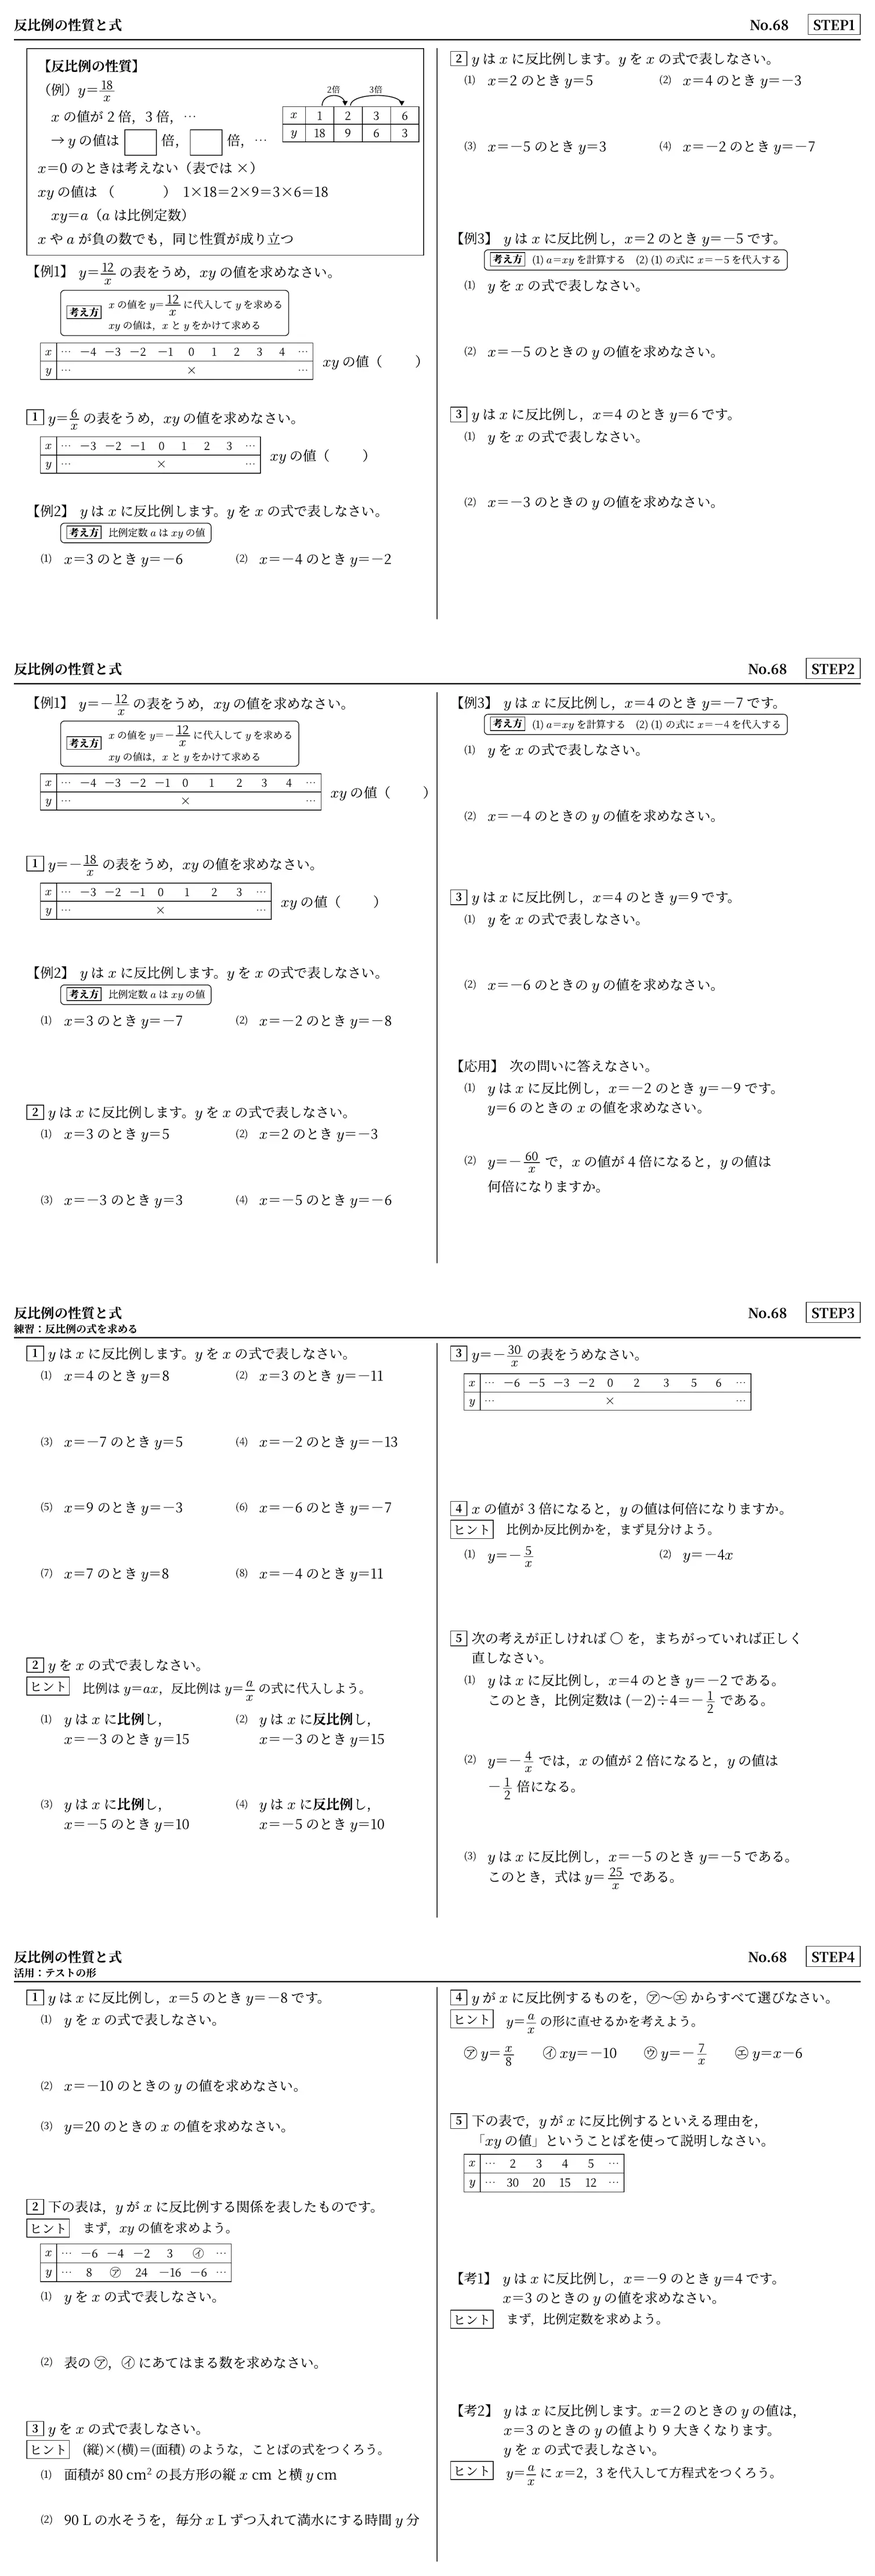
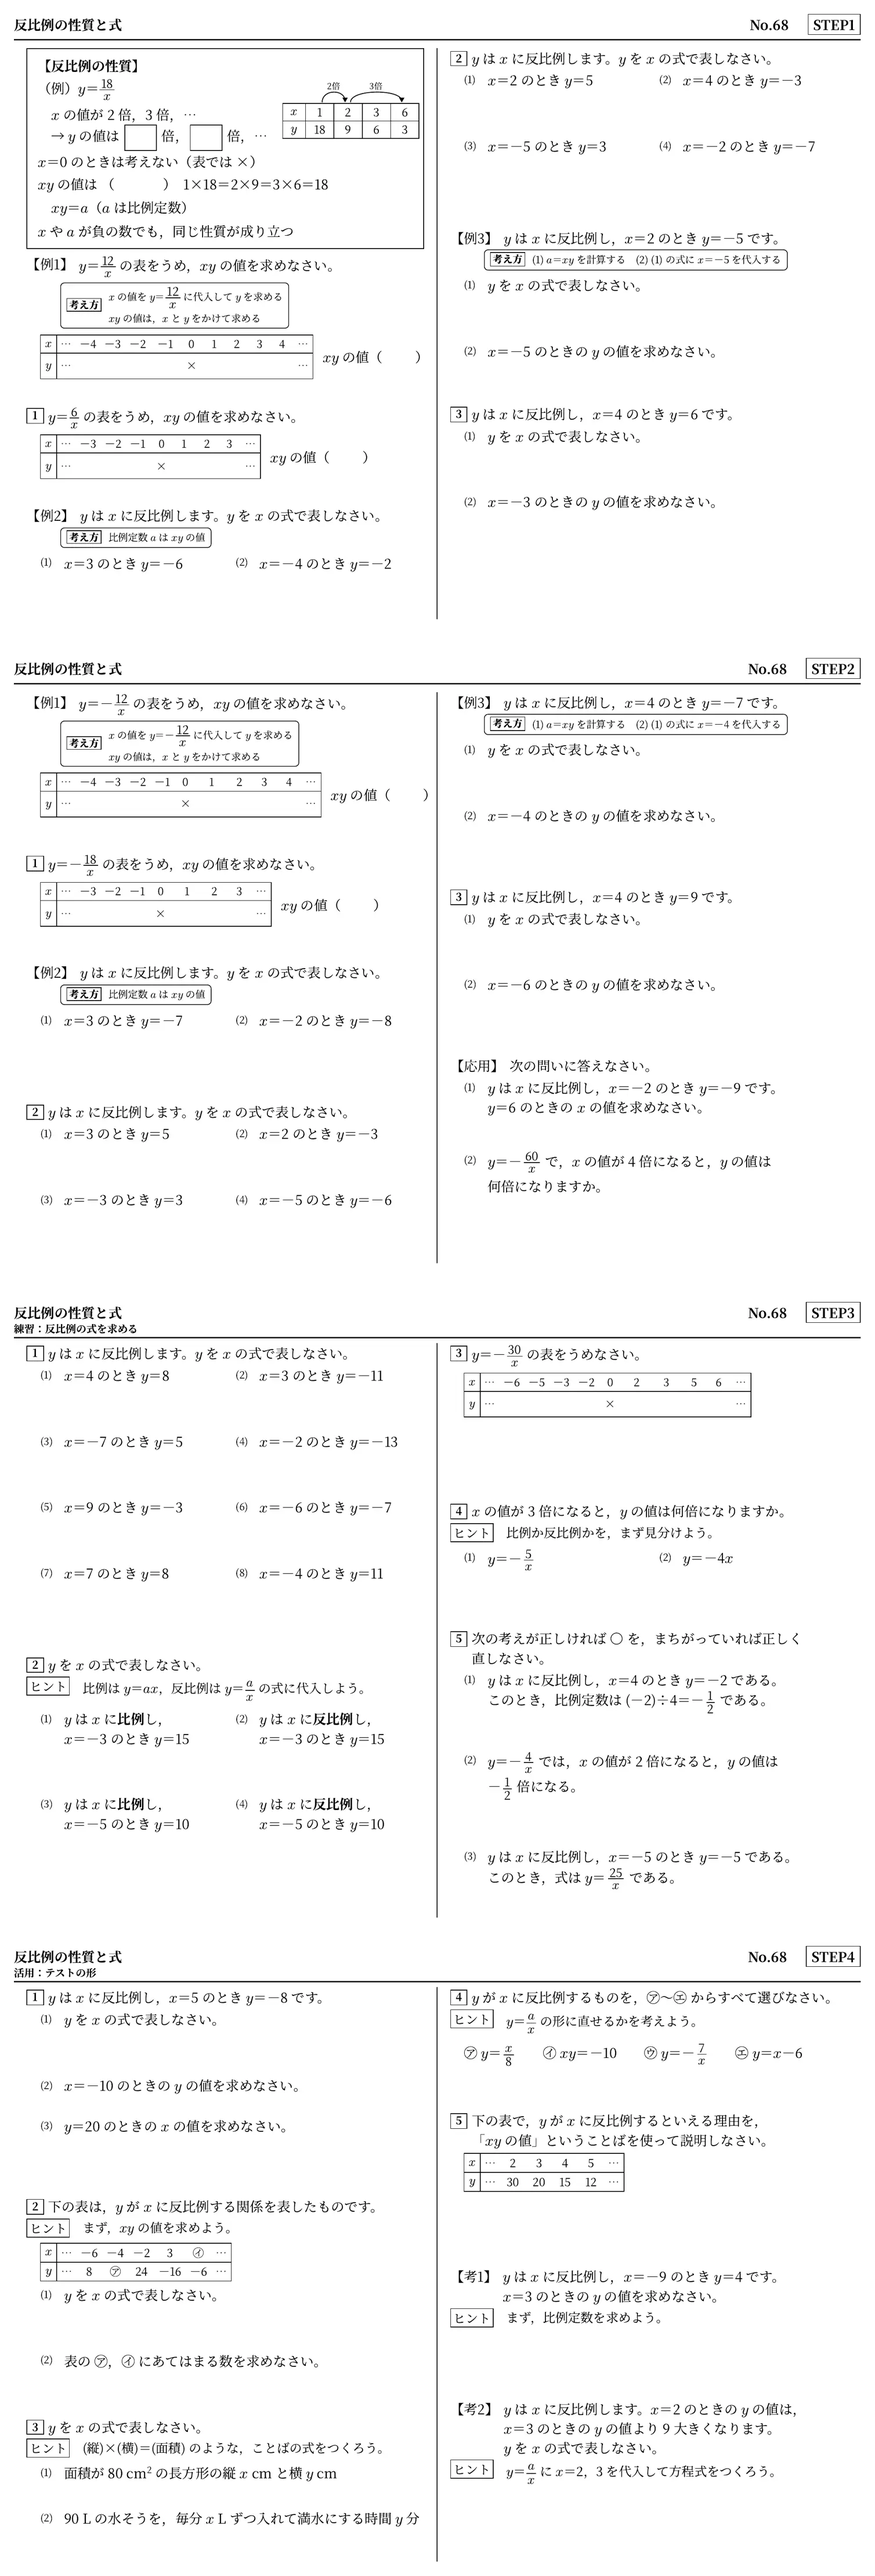
書きこむ表の行を 10 mm に（素数 No.1・比例と反比例 9 回・空間図形 4 回）

diff --git a/index.html b/index.html
@@ -216,7 +216,7 @@ body.locked { overflow: hidden; }
 
 <script id="site-data" type="application/json">
 {
- "updated": "2026-10-12",
+ "updated": "2026-10-15",
  "keisanouUrl": "https://script.google.com/macros/s/AKfycbwdVa45DXeeKQowfIZ1bvT6kVloblz-O3ykn0sSTDREudWZ1hSgZv9bHA4_izCfsCgWUA/exec",
  "grades": [
   {
